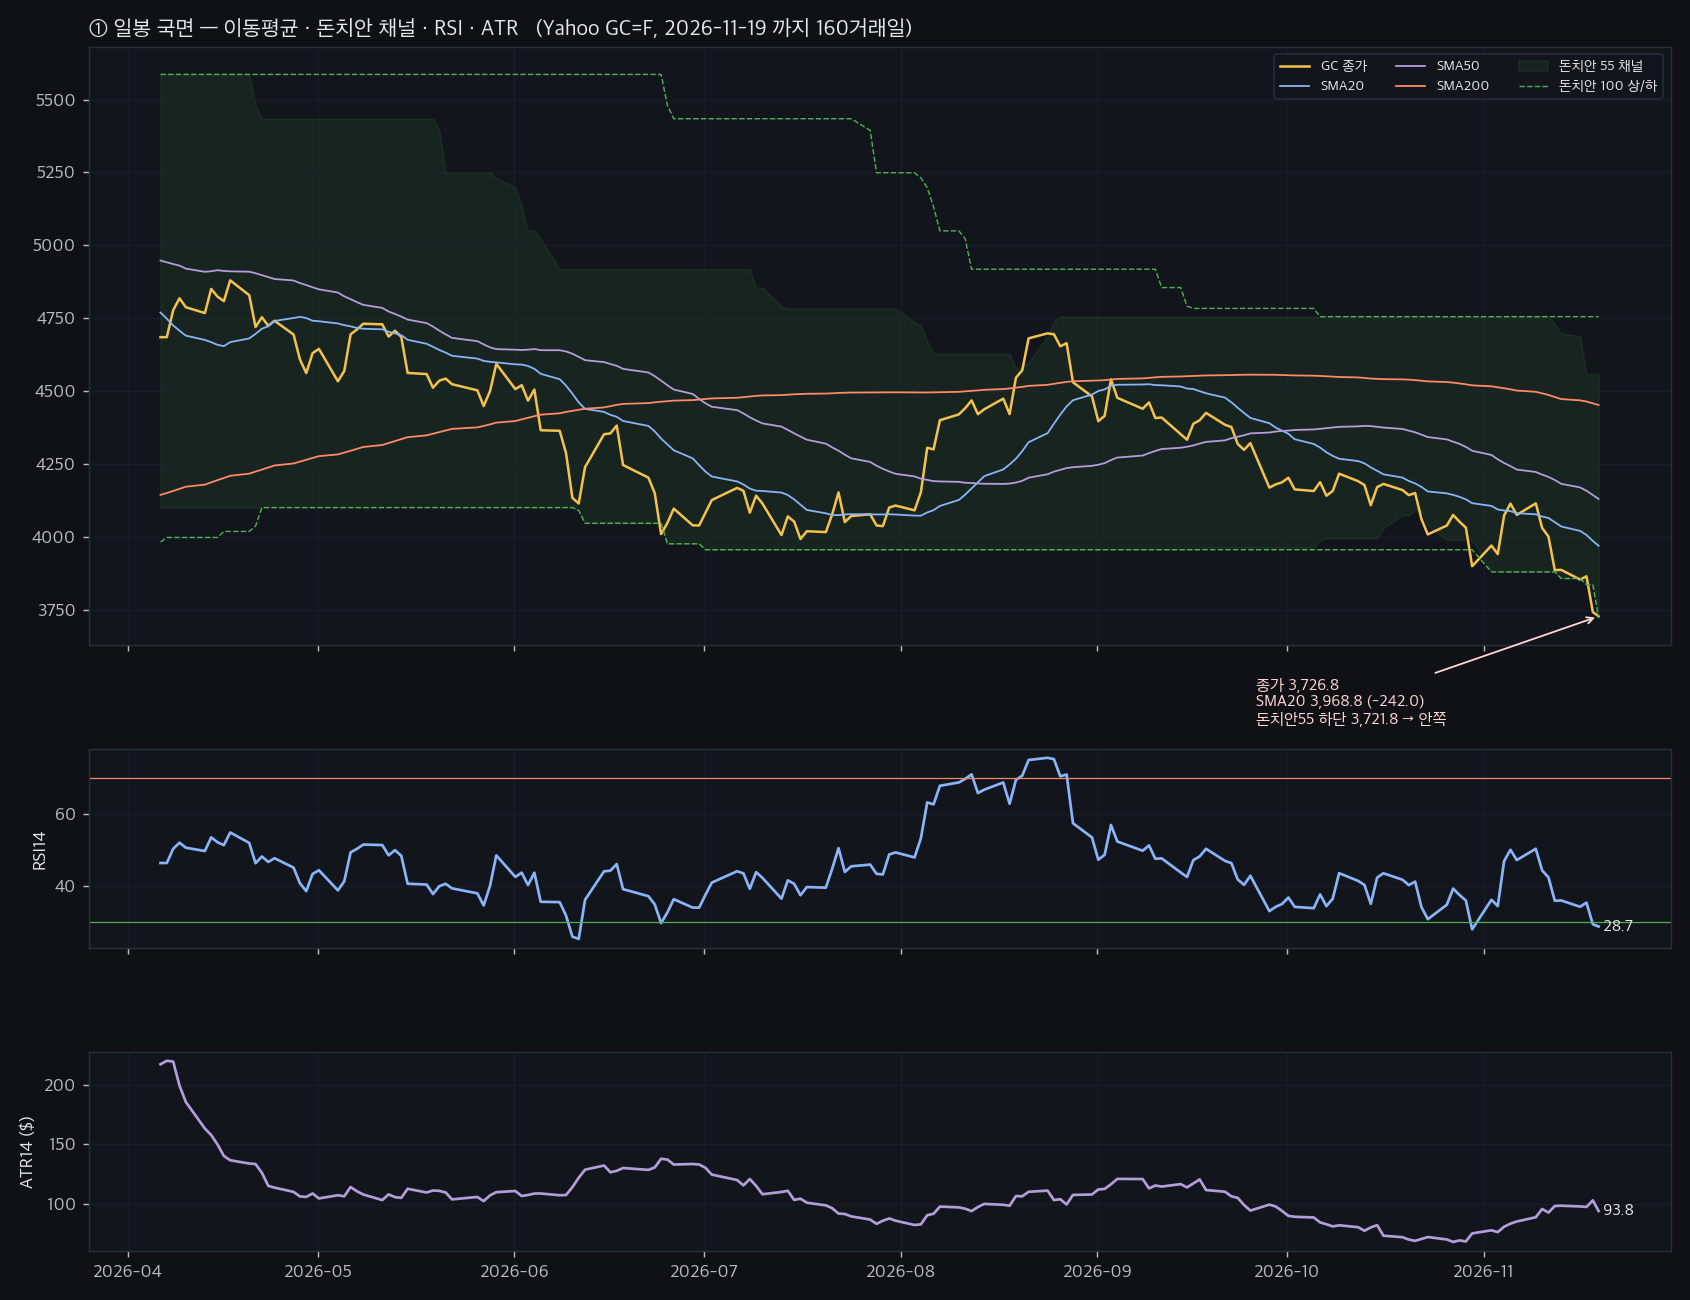
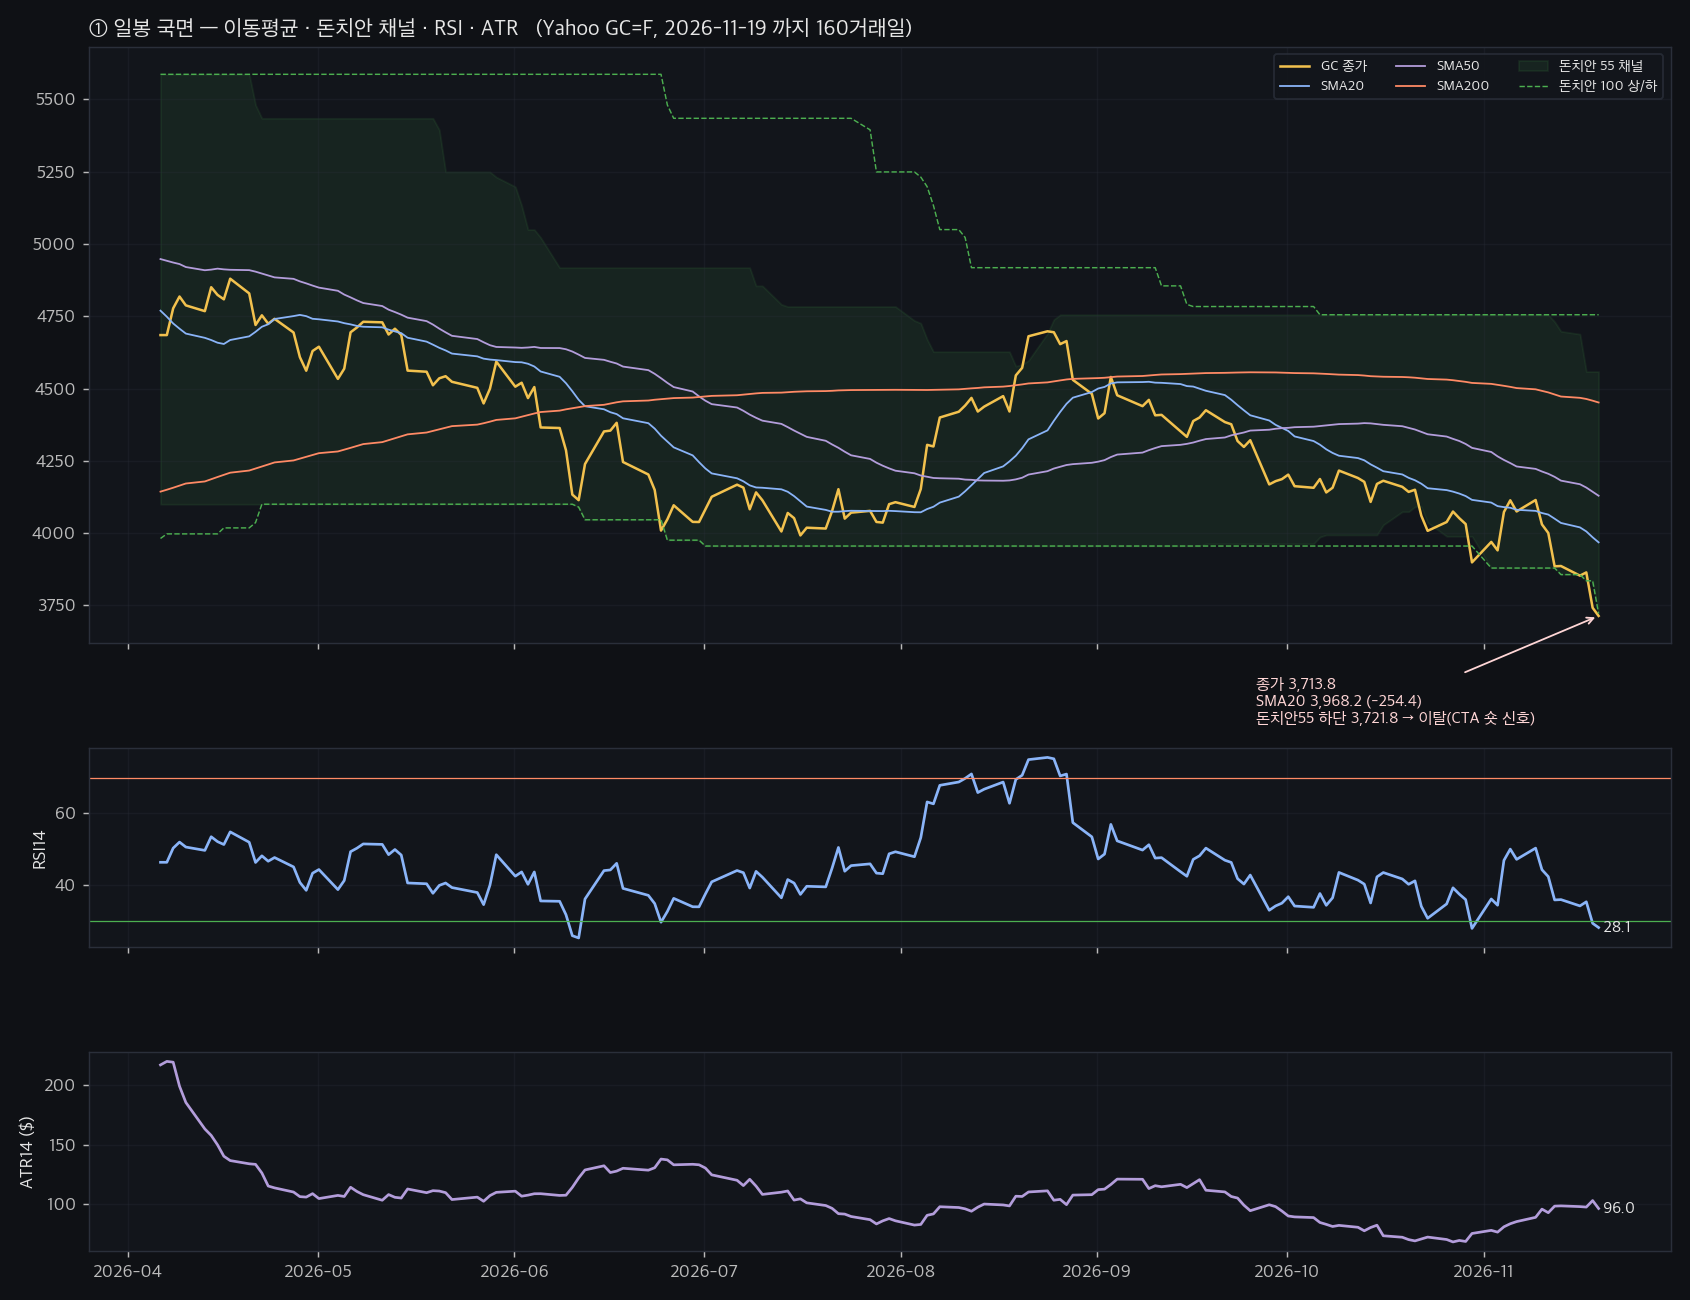
동반자산 그림: 금은 Sierra 5분봉 사용(Yahoo 결측 직선 제거)

diff --git a/index.html b/index.html
@@ -20,7 +20,7 @@ details.co-info{border-left-color:#3a7bd5}details.co-info>summary{background:rgb
 details.co-tip,details.co-success{border-left-color:#3cab6e}details.co-tip>summary,details.co-success>summary{background:rgba(60,171,110,.18)}
 </style></head><body><h1>Gold Forecastor — COMEX 금 세션 예측·복기</h1>
 <p style="font-size:1.1em"><a href="calendar.html"><b>📅 캘린더 (주간/월간)</b></a> &nbsp;·&nbsp; <a href="events/index.html"><b>📊 이벤트별 과거 영향 분석</b></a> (69개 가족, 발생 기록 34건)</p>
-<p class="muted">생성: 2026-11-19 12:08 KST · 2026-11-18 22:08 EST ET</p>
+<p class="muted">생성: 2026-11-19 12:45 KST · 2026-11-18 22:45 EST ET</p>
 <h2>오늘·내일 이벤트</h2><p class="muted">2026-11-19 ~ 2026-11-21 (KST)</p><table><tr><th>날짜(KST)</th><th>ET 시각</th><th>KST 시각</th><th>이벤트</th><th>등급</th><th>차단 창 (ET / KST)</th><th>과거 분석</th><th>출처</th></tr><tr class="warn"><td>2026-11-19</td><td>14:00</td><td>04:00</td><td>FOMC minutes (meeting 2026-10-28) (tentative)</td><td>주의</td><td>2026-11-18 13:55 ~ 2026-11-18 14:20<br>2026-11-19 03:55 ~ 2026-11-19 04:20</td><td><a href="events/FOMC minutes.html">프로필</a></td><td><a href="https://www.federalreserve.gov/monetarypolicy/fomccalendars.htm">링크</a></td></tr><tr class="warn"><td>2026-11-19</td><td>08:30</td><td>22:30</td><td>US Initial Jobless Claims (weekly)</td><td>주의</td><td>2026-11-19 08:25 ~ 2026-11-19 09:00<br>2026-11-19 22:25 ~ 2026-11-19 23:00</td><td><a href="events/US Initial Jobless Claims.html">프로필</a></td><td><a href="https://www.dol.gov/ui/data.pdf">링크</a></td></tr><tr class="warn"><td>2026-11-20</td><td>20:00</td><td>10:00</td><td>PBoC Loan Prime Rate (1y/5y)</td><td>주의</td><td>2026-11-19 19:55 ~ 2026-11-19 20:30<br>2026-11-20 09:55 ~ 2026-11-20 10:30</td><td><a href="events/PBoC LPR.html">프로필</a></td><td><a href="http://www.pbc.gov.cn/">링크</a></td></tr><tr class="ign"><td>2026-11-21</td><td>15:30</td><td>05:30</td><td>CFTC Commitments of Traders (GC positioning)</td><td>무시</td><td>2026-11-20 15:30 ~ 2026-11-20 15:45<br>2026-11-21 05:30 ~ 2026-11-21 05:45</td><td><a href="events/CFTC COT.html">프로필</a></td><td><a href="https://www.cftc.gov/MarketReports/CommitmentsofTraders/ReleaseSchedule/index.htm">링크</a></td></tr><tr class="ign"><td>2026-11-21</td><td>16:00</td><td>06:00</td><td>GLD/equity monthly options expiry</td><td>무시</td><td>2026-11-20 16:00 ~ 2026-11-20 16:15<br>2026-11-21 06:00 ~ 2026-11-21 06:15</td><td><a href="events/GLD options expiry.html">프로필</a></td><td><a href="https://www.cboe.com/about/hours/us-options/">링크</a></td></tr></table>
 <h2>지난 세션 복기 (최신)</h2><p class="muted"><a href="reviews/2026-11-18_미국.html">2026-11-18_미국</a></p><div class="note"><h1>2026-11-18 미국 세션 복기 (09:30 ET~19:00 ET / 23:30~11-19 09:00 KST)</h1>
 <p>작성 07:40 KST · <strong>부분 복기(~06:59 KST)</strong> · 틱 <code>GC_2026-11-18.p0720.ok</code> window_utc 12:37~22:15 · bars_in_window 563 · 마지막 봉 21:59 UTC(Coordinated Universal Time, 협정 세계시) · written_kst 07:18:07 · 세션 450봉(09:30~16:59 ET) · 꼬리(18:00~19:00 ET)는 11-19 15:20 아시아 복기 ⓪ · 예측: <a href="forecasts/2026-11-18_미국.html">2026-11-18_미국</a></p>
